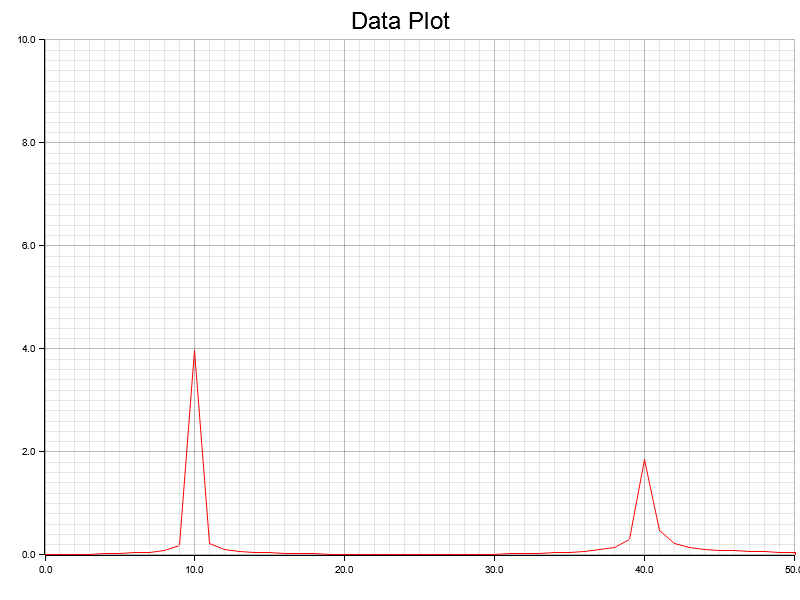
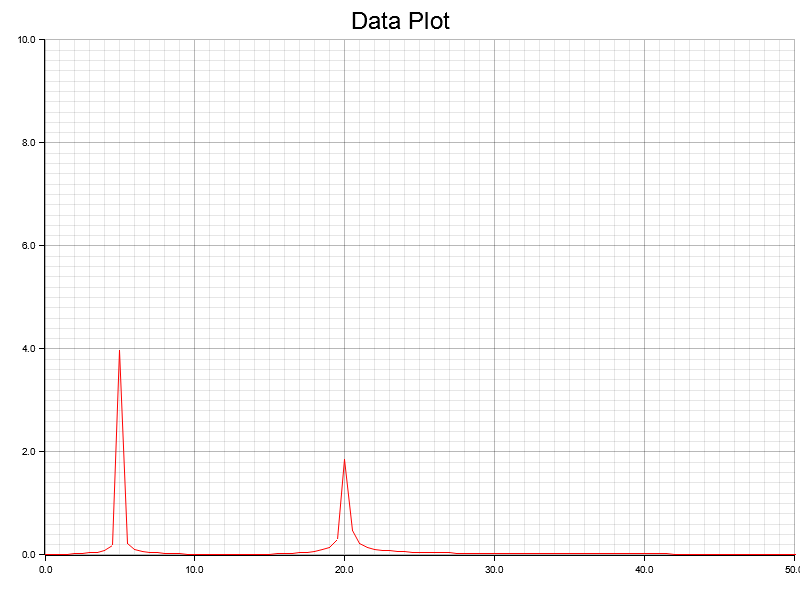
Fixed incorrect frequencies

diff --git a/src/main.rs b/src/main.rs
@@ -177,11 +177,13 @@ fn main() {
     plot_fft("plot2.png", &magnitude, 0.0 , 10.0, 100.0, 500);
     let file_path2: &str = "src/test.txt";
     let data2 = load_from_file(file_path2);
+    
     plot("plot3.png", &data2, -15.0 , 15.0, 100.0);
     let answer = approximate_signal(&data2, 0.0, 2.0, 400).unwrap();
     plot("plot4.png", &answer, -15.0 , 15.0, 200.0);
     let magnitude2 = fft(&answer);
-    plot_fft("plot5.png", &magnitude2, 0.0 , 10.0, 200.0, 200 );
+    println!("{}", answer.len());
+    plot_fft("plot5.png", &fft(&answer), 0.0 , 10.0, 200.0, 400 );
     for (n,x) in magnitude2[0..magnitude2.len()/2].iter().enumerate(){
         if *x > 1.5 && *x < 5.0
         {
